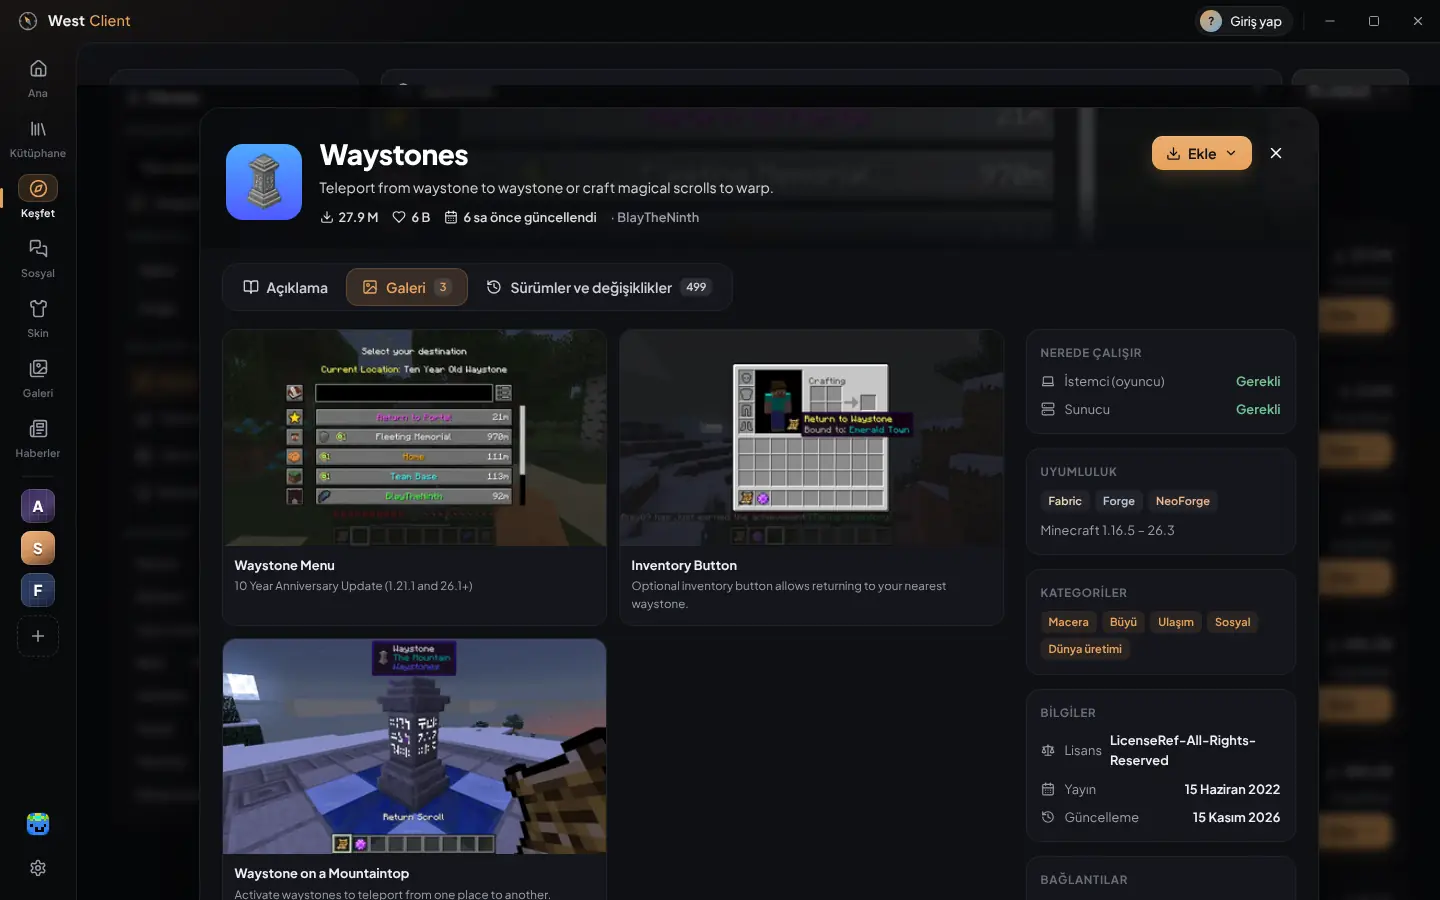
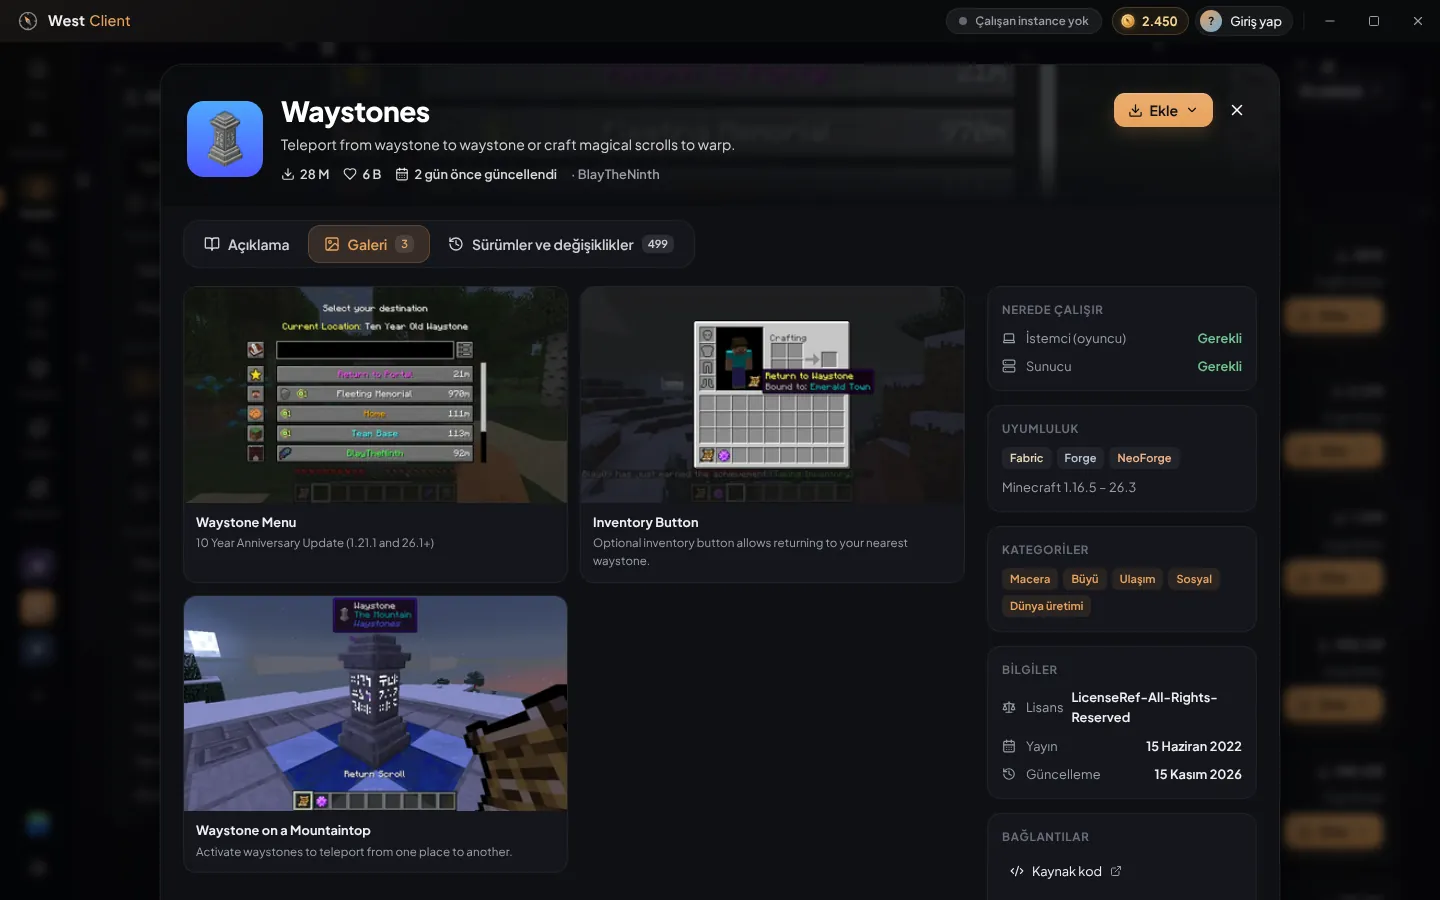
Site: ekran görüntüleri yenilendi, yeni özellikler galeriye eklendi
- 12 ekran görüntüsü güncel arayüzle yeniden çekildi (yeni renkler, coin sayacı, v0.5.3)
- Galeriye yeni: oyun içi ana menü, West Coin mağazası, Gardırop, Ashi Çözücü, dünya davetleri

Claude-Session: https://claude.ai/code/session_017BGwMHJgBU9zxtNajRruqT

diff --git a/site/app.js b/site/app.js
@@ -187,6 +187,11 @@
   const SHOTS = [
     ["home", "Ana sayfa", "Kaldığın yerden devam et; son oynananlar ve Minecraft haberleri."],
     ["library", "Kütüphane", "Her paketin kendi piksel manzarası ve kapağı."],
+    ["ingame", "Oyun içi ana menü", "Minecraft'ın içinde West ana menüsü: hızlı oyna, dünyalar, sosyal ve gardırop."],
+    ["shop", "West Coin mağazası", "Oynadıkça coin kazan; pelerin, kanat, şapka, tema ve West Plus al."],
+    ["wardrobe", "Gardırop", "Aksesuarlarını oyunun içinde tak, çıkar, dönen karakterinde gör."],
+    ["solver", "Ashi Çözücü", "Çökme raporunu okur, suçlu modu bulur, gerekirse modu kendisi onarır."],
+    ["invite", "Dünya davetleri", "Arkadaşının davetine tıkla, uygun instance'ı seç, doğrudan dünyasına gir."],
     ["instance", "Instance", "Modlar tek tabloda: güncelle, aç-kapat, kaldır."],
     ["browse", "Keşfet", "Sürüm, yükleyici, istemci/sunucu ve kategoriye göre süzme."],
     ["gallery", "Mod galerisi", "Bir moda tıkla; ekran görüntüleri ve açıklaması."],
